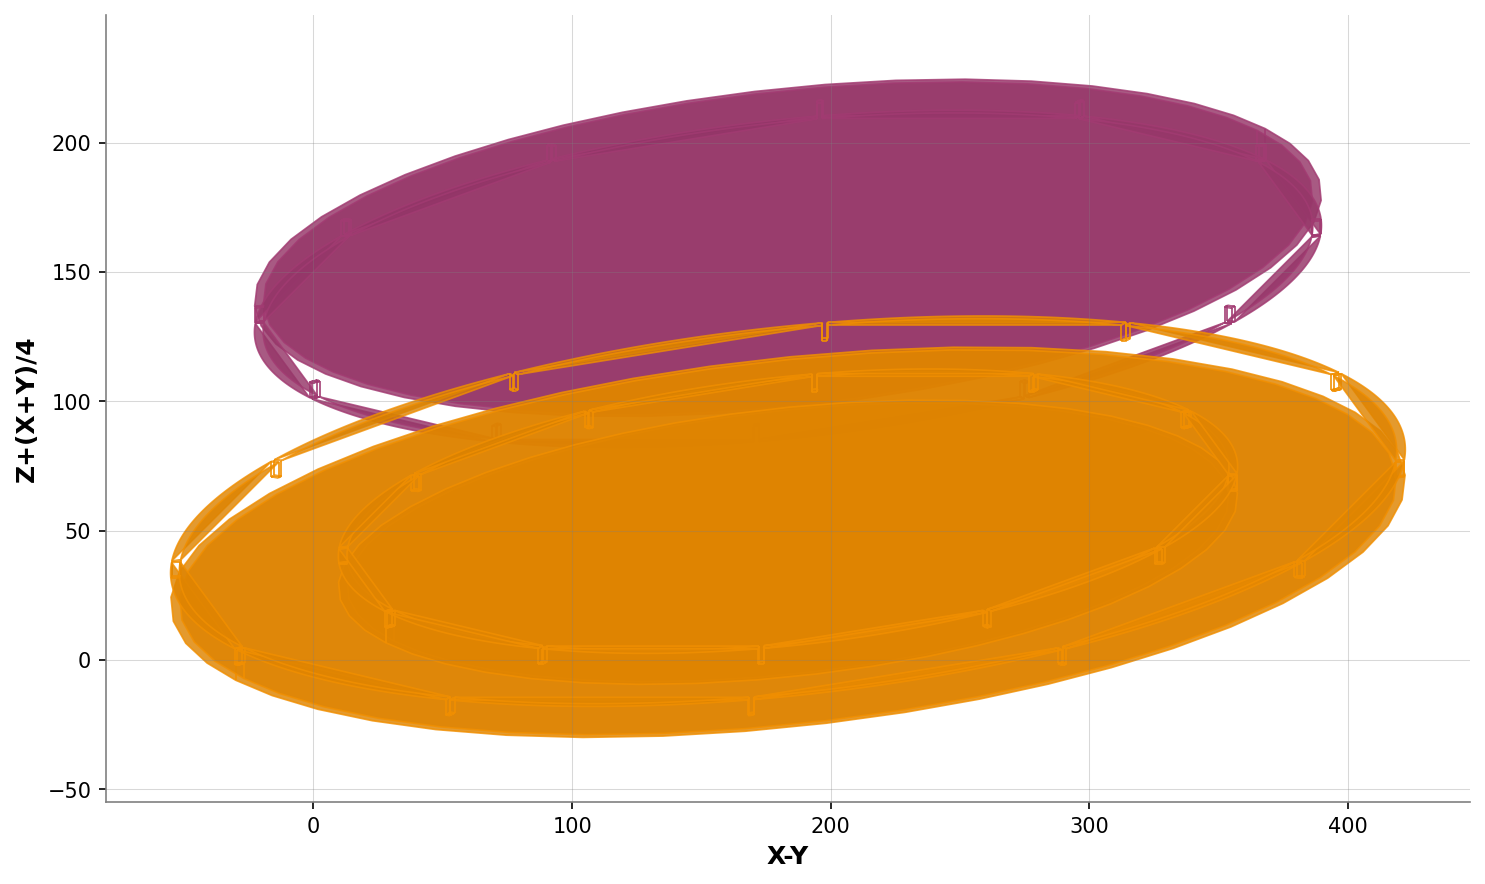
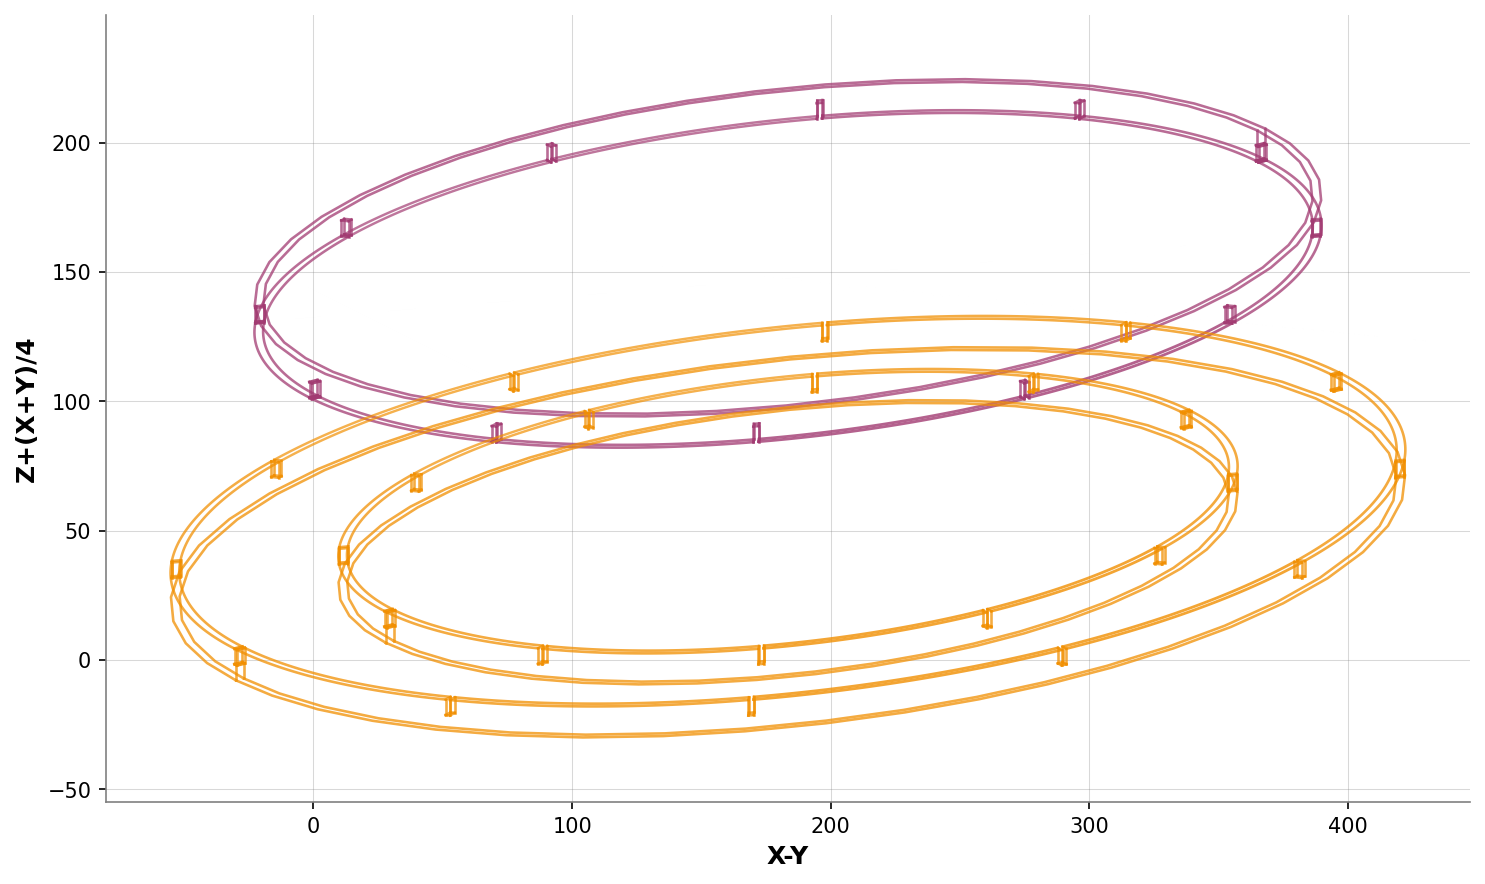
Revert to clean wireframe isometric view - filled surfaces were messy

diff --git a/generate_3d_views.py b/generate_3d_views.py
@@ -384,40 +384,24 @@ def create_wireframe_view(wireframe_lines_with_layers, view_name, bounds, output
             ax.plot(x, y, color=color, linewidth=1.2, alpha=0.85)
             
         elif view_name == 'isometric':
-            # Isometric projection with filled 3D surfaces
+            # Isometric projection with clean wireframes and depth styling
             iso_x = line_array[:, 0] - line_array[:, 1] * 0.5
             iso_y = line_array[:, 2] + (line_array[:, 0] + line_array[:, 1]) * 0.25
 
-            # Calculate depth for 3D shading effect
+            # Calculate depth for clean wireframe styling
             depth = line_array[:, 2] + line_array[:, 1] * 0.3
             depth_normalized = (depth - np.min(depth)) / (np.max(depth) - np.min(depth) + 1e-10)
-            avg_depth = np.mean(depth_normalized)
-            
-            # Check if this is a closed curve (for filling)
-            start_point = np.array([iso_x[0], iso_y[0]])
-            end_point = np.array([iso_x[-1], iso_y[-1]])
-            is_closed = np.linalg.norm(start_point - end_point) < 3.0
-            
-            if len(iso_x) > 4 and (is_closed or len(iso_x) > 12):
-                # Create filled surfaces with depth-based shading
-                # Closer surfaces are brighter/more opaque
-                fill_alpha = 0.7 + (1 - avg_depth) * 0.25  # Front surfaces more opaque
-                
-                # Slightly darken the fill color for depth effect
-                import matplotlib.colors as mcolors
-                rgb = mcolors.to_rgb(color)
-                # Make closer surfaces brighter
-                brightness_factor = 0.85 + (1 - avg_depth) * 0.15
-                fill_color = tuple(min(1.0, c * brightness_factor) for c in rgb)
-                
-                # Fill the surface
-                ax.fill(iso_x, iso_y, color=fill_color, alpha=fill_alpha, 
-                       edgecolor=color, linewidth=0.8)
-            else:
-                # Draw wireframe for smaller/open curves
-                line_alpha = 0.8 + (1 - avg_depth) * 0.15
-                line_width = 1.0 + (1 - avg_depth) * 0.4
-                ax.plot(iso_x, iso_y, color=color, linewidth=line_width, alpha=line_alpha)
+
+            # Varying line width and alpha based on depth for clean 3D effect
+            base_alpha = 0.9
+            depth_alpha = base_alpha - depth_normalized * 0.3  # Front lines more opaque
+            avg_alpha = np.mean(depth_alpha)
+
+            base_width = 1.0
+            depth_width = base_width + (1 - depth_normalized) * 0.5  # Front lines thicker
+            avg_width = np.mean(depth_width)
+
+            ax.plot(iso_x, iso_y, color=color, linewidth=avg_width, alpha=avg_alpha)
     
     # Technical CAD-style wireframe views with layer colors
     
